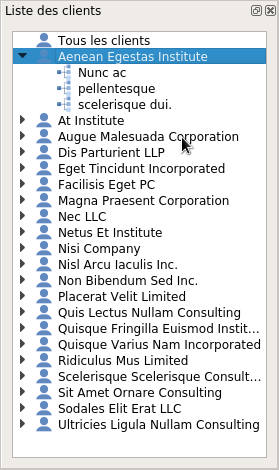
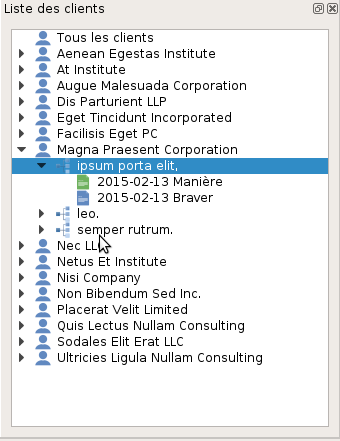
Change of screens and text of quote section

diff --git a/documents/userManual/contents/7-factures.tex b/documents/userManual/contents/7-factures.tex
@@ -1,0 +1,15 @@
+\chapter{Les factures}
+Les factures sont comme les devis une des fonctionnalités les plus importantes de l'application. De propriétés semblable, il est aussi possible de créer plusieurs factures pour un projet.
+\section{Liste des factures\index{Facture!Liste}}
+Pour afficher les factures d'un projet il faut, à partir du panneau contenant la liste des projets d'un client, faire un double clic sur le projet en question. La liste affichée contient les factures et les devis du projet sélectionné auparavant. C'est la même liste qui est affichée si l'on cherche à afficher les devis.
+
+\section{Ajouter une facture\index{Facture!Ajouter}}
+Pour ajouter une facture, il est nécessaire de sélectionner un client dans le panneau central (si l'on est dans la liste des projets ou des factures, la nouvelle facture sera automatiquement ajouté à ce client). Une fois le client selectionné on crée une nouvelle facture en cliquant sur le bouton << Nouvelle facture >> de la barre d'outils ou via le menu << Client $\rightarrow$ Nouvelle facture >>. 
+\begin{figure}[H]
+	\centering
+	\includegraphics[width=7cm]{screens/creerDevis.png}
+	\caption{Créer une nouvelle facture à un projet client}
+\end{figure}
+Une facture possède un titre à afficher, une date (celle du jour de création du projet), une description et la liste des prestations qui lui sont associées. 
+\section{Les Prestations\index{Facture!Prestation}}
+La liste des prestations sont affichées dans la fenêtre d'ajout d'une facture\index{Facture!Ajouter}. Une prestation peut être ajoutée, respectivement supprimée en utilisant les boutons << Ajouter une prestation >> et << Supprimer une prestation >>. Dans le cas d'un ajout, une nouvelle ligne est ajoutée au tableau des prestations. Cette ligne indique à quel projet est associé la prestation, une description de la prestation et le nombre d'heures que l'on va y consacrer. 

diff --git a/documents/userManual/contents/2-ihm.tex b/documents/userManual/contents/2-ihm.tex
@@ -73,7 +73,7 @@ Le panneau initialement situé en bas à gauche contient les informations de l'u
 % Il est possible d’ajouter un projet, d’en supprimer ou de modifier un projet du client via ce panneau. 
 % TODO
 \section{Panneau hiérarchique\index{Panneau!Hiérarchie}}
-Le panneau hiérarchique, initialement situé en bas à droite de la fenêtre principale, comporte une vue hiérarchique de l'ensemble des clients et des projets associés à chacun de ces clients.
+Le panneau hiérarchique, initialement situé en bas à droite de la fenêtre principale, comporte une vue hiérarchique de l'ensemble des clients et des projets associés à chacun de ces clients. Des devis et des factures sont finalement associés à chacun des projets.
 
 \begin{figure}[H]
 	\centering
@@ -83,7 +83,7 @@ Le panneau hiérarchique, initialement situé en bas à droite de la fenêtre pr
 \end{figure}
 
 \section{Panneau de recherche\index{Panneau!Recherche}}
-Le panneau de recherche, situé en haut à gauche, permet d’effectuer une recherche sur le nom de la société, le nom du client ou du référent si la case filtre de recherche est cochée. La recherche est alors faite selon le nom du référent. Cela permet de retrouver rapidement et facilement un client.
+Le panneau de recherche, situé en haut à gauche, permet d’effectuer une recherche selon le nom de la société, le nom du client, du référent, du projet, d'une prestation ou le numéro et le nom d'un devis ou d'une facture si la case filtre de recherche est cochée. La recherche est alors faite selon le nom du référent. Cela permet de retrouver rapidement et facilement un client.
 
 En dessous du champ de recherche sont affichés toutes les sociétés dans la base de données ainsi que les noms des clients ou référents lorsque ceux-ci ne possèdent pas de société.
 

diff --git a/documents/userManual/contents/6-devis.tex b/documents/userManual/contents/6-devis.tex
@@ -1,11 +1,11 @@
 \chapter{Les devis\index{Devis}}
 Les devis représentent l'une des fonctionnalités principales de l'application. Il est possible de créer plusieurs devis pour un seul projet d'un client. 
 \section{Liste des devis\index{Devis!Liste}}
-Pour afficher la liste des devis d'un projet il faut, à partir du panneau contenant la liste des projets d'un client, faire un double clic sur le projet en question.
+Pour afficher les devis d'un projet il faut, à partir du panneau contenant la liste des projets d'un client, faire un double clic sur le projet en question. La liste affichée contient les factures et les devis du projet sélectionné auparavant.
 \begin{figure}[H]
 	\centering
 	\includegraphics[width=12cm]{screens/ihmDevis.png}
-	\caption{Liste des devis d'un projet}
+	\caption{Liste des devis/factures d'un projet}
 \end{figure}
 
 \section{Ajouter un devis\index{Devis!Ajouter}}
@@ -15,7 +15,7 @@ Pour ajouter un devis, il est nécessaire de sélectionner un client dans le pan
 	\includegraphics[width=7cm]{screens/creerDevis.png}
 	\caption{Créer un nouveau devis à un projet client}
 \end{figure}
-Un devis possède un titre à afficher, une date (celle du jour de création du projet), une description et la liste des prestations qui lui sont associées. 
+Un devis possède un titre à afficher, une date (celle du jour de création du projet), une description et la liste des prestations qui lui sont associées.
 \section{Editer un devis\index{Devis!Editer}}
 Pour éditer un devis, il faut nécessairement cliquer dessus sur le tableau affichant les devis d'un projet. Une fois le devis sélectionné, on affiche la fenêtre d'édition de devis en cliquant sur le bouton << Editer le devis >> en dessous du tableau.
 \section{Les Prestations\index{Devis!Prestation}}
